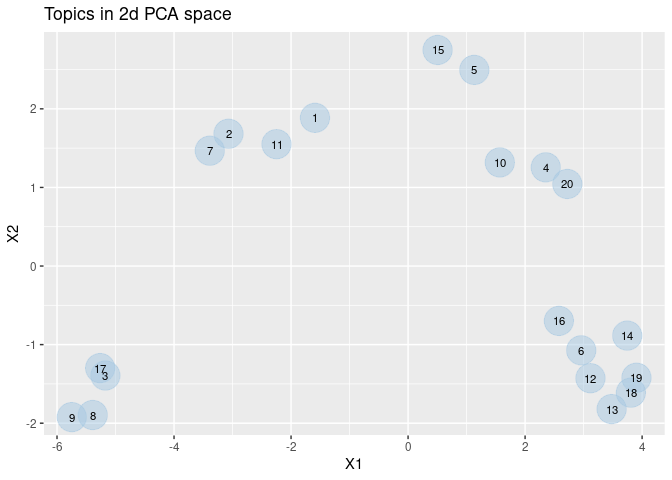
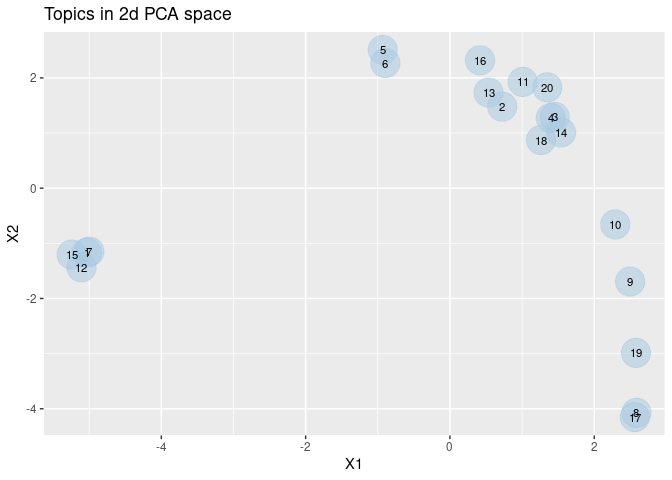
re

diff --git a/README.md b/README.md
@@ -37,23 +37,23 @@ parameter specifies the query term; the `fields` parameter can be used
 to specify which fields to query.
 
 ``` r
-s0 <- PubmedMTK::pmtk_search_pubmed(search_term = 'marijuana', 
+s0 <- PubmedMTK::pmtk_search_pubmed(search_term = 'medical marijuana', 
                                     fields = c('TIAB','MH'))
 ```
 
-    ## [1] "marijuana: 22004 records"
+    ## [1] "medical marijuana: 2125 records"
 
 ``` r
 head(s0)
 ```
 
-    ##    search_term     pmid
-    ## 1:   marijuana 34074708
-    ## 2:   marijuana 34074707
-    ## 3:   marijuana 34073522
-    ## 4:   marijuana 34060494
-    ## 5:   marijuana 34058538
-    ## 6:   marijuana 34058314
+    ##          search_term     pmid
+    ## 1: medical marijuana 34044753
+    ## 2: medical marijuana 34007062
+    ## 3: medical marijuana 33998880
+    ## 4: medical marijuana 33998864
+    ## 5: medical marijuana 33981161
+    ## 6: medical marijuana 33974499
 
 ### Retrieve abstract data from PubMed
 
@@ -65,12 +65,43 @@ sen_df <- PubmedMTK::pmtk_get_records2(pmids = s0$pmid,
 sen_df <- data.table::rbindlist(sen_df)
 ```
 
+> Sample record from output:
+
 ``` r
-colnames(sen_df)
+n <- 9
+list(pmid = sen_df$pmid[n],
+     year = sen_df$year[n],
+     articletitle = strwrap(sen_df$articletitle[n], width = 60),
+     meshHeadings = strwrap(sen_df$meshHeadings[n], width = 60),
+     text = strwrap(sen_df$abstract[n], width = 60)[1:10])
 ```
 
-    ## [1] "pmid"         "year"         "articletitle" "meshHeadings" "chemNames"   
-    ## [6] "keywords"     "abstract"
+    ## $pmid
+    ## [1] "33933061"
+    ## 
+    ## $year
+    ## [1] "2021"
+    ## 
+    ## $articletitle
+    ## [1] "Opioid use in medical cannabis authorization adult patients"
+    ## [2] "from 2013 to 2018: Alberta, Canada."                        
+    ## 
+    ## $meshHeadings
+    ## [1] "Adult|Alberta|Analgesics,"                                  
+    ## [2] "Opioid|Cannabis|Female|Humans|Male|Medical Marijuana|Middle"
+    ## [3] "Aged|Opioid-Related Disorders|United States"                
+    ## 
+    ## $text
+    ##  [1] "The opioid overdose epidemic in Canada and the United"      
+    ##  [2] "States has become a public health crisis - with exponential"
+    ##  [3] "increases in opioid-related morbidity and mortality."       
+    ##  [4] "Recently, there has been an increasing body of evidence"    
+    ##  [5] "focusing on the opioid-sparing effects of medical cannabis" 
+    ##  [6] "use (reduction of opioid use and reliance), and medical"    
+    ##  [7] "cannabis as a potential alternative treatment for chronic"  
+    ##  [8] "pain. The objective of this study is to assess the effect"  
+    ##  [9] "of medical cannabis authorization on opioid use (oral"      
+    ## [10] "morphine equivalent; OME) between 2013 and 2018 in Alberta,"
 
 ### Extract MeSH classifications
 
@@ -120,8 +151,8 @@ lda <- text2vec::LDA$new(n_topics = 20)
 fit <- lda$fit_transform(dtm, progressbar = F)
 ```
 
-    ## INFO  [08:39:03.738] early stopping at 170 iteration 
-    ## INFO  [08:39:04.860] early stopping at 20 iteration
+    ## INFO  [09:14:52.463] early stopping at 160 iteration 
+    ## INFO  [09:14:52.633] early stopping at 20 iteration
 
 ``` r
 tm_summary <- PubmedMTK::pmtk_summarize_lda(
@@ -130,18 +161,18 @@ tm_summary <- PubmedMTK::pmtk_summarize_lda(
 
 #### Feature composition of first ten topics
 
-| topic_id | topic_features                                                                                                                                                                                                                               |
-|---------:|:---------------------------------------------------------------------------------------------------------------------------------------------------------------------------------------------------------------------------------------------|
-|        1 | marijuana \| marijuana_use \| young_adult \| substance_use \| alcohol \| marijuana_smoking \| adolescents \| united_states \| tobacco \| adolescence                                                                                         |
-|        2 | animals \| rats \| mice \| endocannabinoids \| receptors,\_cannabinoid \| receptor,\_cannabinoid,\_cb1 \| dronabinol \| cannabinoid_receptor_modulators \| receptors,\_drug \| brain                                                         |
-|        3 | cannabis \| medical_marijuana \| legislation,\_drug \| drug_and_narcotic_control \| phytotherapy \| canada \| public_health \| health_policy \| chronic_pain \| united_kingdom                                                               |
-|        4 | united_states \| substance-related_disorders \| male \| adolescent \| age_factors \| female \| socioeconomic_factors \| behavior \| adult \| crime                                                                                           |
-|        5 | students \| alcohol_drinking \| substance-related_disorders \| sex_factors \| smoking \| adolescent \| universities \| male \| attitude \| age_factors                                                                                       |
-|        6 | marijuana_abuse \| male \| adult \| comorbidity \| female \| mental_disorders \| depression \| alcoholism \| psychoses,\_substance-induced \| anxiety                                                                                        |
-|        7 | dronabinol \| time_factors \| animals \| dose-response_relationship,\_drug \| heart_rate \| behavior,\_animal \| drug_interactions \| memory \| administration,\_oral \| drug_tolerance                                                      |
-|        8 | cannabis \| male \| aggression \| tobacco \| seeds \| ethanol \| plants,\_toxic \| lung \| smoke \| perception                                                                                                                               |
-|        9 | cannabis \| dronabinol \| cannabinoids \| gas_chromatography-mass_spectrometry \| chromatography,\_gas \| chromatography,\_thin_layer \| reproducibility_of_results \| chromatography,\_high_pressure_liquid \| mass_spectrometry \| methods |
-|       10 | female \| pregnancy \| child \| smoking \| prospective_studies \| prenatal_exposure_delayed_effects \| infant,\_newborn \| case-control_studies \| longitudinal_studies \| pregnancy_complications                                           |
+| topic_id | topic_features                                                                                                                                                                                                                     |
+|---------:|:-----------------------------------------------------------------------------------------------------------------------------------------------------------------------------------------------------------------------------------|
+|        1 | cannabis \| phytotherapy \| legislation,\_drug \| plant_preparations \| health_services_accessibility \| cannabinoid_receptor_modulators \| drug_and_narcotic_control \| politics \| ethics,\_medical \| gastrointestinal_diseases |
+|        2 | marijuana_smoking \| marijuana \| risk_assessment \| adult \| risk_factors \| practice_patterns,\_physicians’ \| health_policy \| cannabis \| time_factors \| germany                                                              |
+|        3 | cannabidiol \| dronabinol \| cannabinoids \| epilepsy \| anticonvulsants \| plant_extracts \| seizures \| tetrahydrocannabinol \| drug_resistant_epilepsy \| epilepsies,\_myoclonic                                                |
+|        4 | cannabinoids \| animals \| endocannabinoids \| brain \| receptors,\_cannabinoid \| receptor,\_cannabinoid,\_cb1 \| cognition \| treatment_outcome \| endocannabinoid_system \| inflammatory_bowel_diseases                         |
+|        5 | marijuana_smoking \| united_states \| legislation,\_drug \| cannabis \| drug_prescriptions \| public_health \| substance_abuse_detection \| workplace \| accidents,\_traffic \| substance_use                                      |
+|        6 | united_states \| california \| state_government \| government_regulation \| public_policy \| federal_government \| cannabis \| legislation,\_drug \| united_states_food_and_drug_administration \| jurisprudence                   |
+|        7 | cannabis \| thc \| cbd \| pregnancy \| commerce \| dose-response_relationship,\_drug \| medicinal_cannabis \| marijuana \| biomedical_research \| treatment                                                                        |
+|        8 | female \| male \| adult \| cross-sectional_studies \| middle_aged \| longitudinal_studies \| alcohol_drinking \| logistic_models \| self_report \| residence_characteristics                                                       |
+|        9 | middle_aged \| aged \| adult \| young_adult \| aged,\_80_and_over \| male \| cross-sectional_studies \| health_surveys \| smoking \| ptsd                                                                                          |
+|       10 | surveys_and_questionnaires \| medical_cannabis \| male \| health_knowledge,\_attitudes,\_practice \| attitude_of_health_personnel \| mental_health \| attitudes \| knowledge \| middle_aged \| public_opinion                      |
 
 ### Two-dimensional analyses
 
@@ -191,71 +222,27 @@ re-creating the table from raw data
 sets](https://github.com/jaytimm/PubmedMTK/blob/main/mds/build-MeSH-df.md).
 
 ``` r
-PubmedMTK::pmtk_tbl_mesh
+PubmedMTK::pmtk_tbl_mesh[1:5, c(1:3, 5:6)]
 ```
 
-    ##         DescriptorUI          DescriptorName                 TermName code
-    ##      1:      D000001              calcimycin               calcimycin    D
-    ##      2:      D000001              calcimycin                  a-23187    D
-    ##      3:      D000001              calcimycin                  a 23187    D
-    ##      4:      D000001              calcimycin                   a23187    D
-    ##      5:      D000001              calcimycin        antibiotic a23187    D
-    ##     ---                                                                   
-    ## 562296:      D066331 laser-evoked potentials   laser-evoked potential    G
-    ## 562297:      D066331 laser-evoked potentials  potential, laser-evoked    G
-    ## 562298:      D066331 laser-evoked potentials  potential, laser-evoked    G
-    ## 562299:      D066331 laser-evoked potentials potentials, laser-evoked    G
-    ## 562300:      D066331 laser-evoked potentials potentials, laser-evoked    G
-    ##                            cats
-    ##      1:     Chemicals and Drugs
-    ##      2:     Chemicals and Drugs
-    ##      3:     Chemicals and Drugs
-    ##      4:     Chemicals and Drugs
-    ##      5:     Chemicals and Drugs
-    ##     ---                        
-    ## 562296: Phenomena and Processes
-    ## 562297: Phenomena and Processes
-    ## 562298: Phenomena and Processes
-    ## 562299: Phenomena and Processes
-    ## 562300: Phenomena and Processes
-    ##                                                      mesh1
-    ##      1:                             Heterocyclic Compounds
-    ##      2:                             Heterocyclic Compounds
-    ##      3:                             Heterocyclic Compounds
-    ##      4:                             Heterocyclic Compounds
-    ##      5:                             Heterocyclic Compounds
-    ##     ---                                                   
-    ## 562296: Musculoskeletal and Neural Physiological Phenomena
-    ## 562297:                            Physiological Phenomena
-    ## 562298: Musculoskeletal and Neural Physiological Phenomena
-    ## 562299:                            Physiological Phenomena
-    ## 562300: Musculoskeletal and Neural Physiological Phenomena
-    ##                                          mesh2           tree_location tree1
-    ##      1:     Heterocyclic Compounds, Fused-Ring     D03.633.100.221.173   D03
-    ##      2:     Heterocyclic Compounds, Fused-Ring     D03.633.100.221.173   D03
-    ##      3:     Heterocyclic Compounds, Fused-Ring     D03.633.100.221.173   D03
-    ##      4:     Heterocyclic Compounds, Fused-Ring     D03.633.100.221.173   D03
-    ##      5:     Heterocyclic Compounds, Fused-Ring     D03.633.100.221.173   D03
-    ##     ---                                                                     
-    ## 562296: Nervous System Physiological Phenomena G11.561.200.500.400.500   G11
-    ## 562297:         Electrophysiological Phenomena G07.265.216.500.400.500   G07
-    ## 562298: Nervous System Physiological Phenomena G11.561.200.500.400.500   G11
-    ## 562299:         Electrophysiological Phenomena G07.265.216.500.400.500   G07
-    ## 562300: Nervous System Physiological Phenomena G11.561.200.500.400.500   G11
-    ##           tree2
-    ##      1: D03.633
-    ##      2: D03.633
-    ##      3: D03.633
-    ##      4: D03.633
-    ##      5: D03.633
-    ##     ---        
-    ## 562296: G11.561
-    ## 562297: G07.265
-    ## 562298: G11.561
-    ## 562299: G07.265
-    ## 562300: G11.561
+    ##    DescriptorUI DescriptorName          TermName                cats
+    ## 1:      D000001     calcimycin        calcimycin Chemicals and Drugs
+    ## 2:      D000001     calcimycin           a-23187 Chemicals and Drugs
+    ## 3:      D000001     calcimycin           a 23187 Chemicals and Drugs
+    ## 4:      D000001     calcimycin            a23187 Chemicals and Drugs
+    ## 5:      D000001     calcimycin antibiotic a23187 Chemicals and Drugs
+    ##                     mesh1
+    ## 1: Heterocyclic Compounds
+    ## 2: Heterocyclic Compounds
+    ## 3: Heterocyclic Compounds
+    ## 4: Heterocyclic Compounds
+    ## 5: Heterocyclic Compounds
 
 ### PMC MeSH annotation frequencies
+
+MeSH annotation frequencies for the Open Access Common Use portion of
+PMC. Frequencies based on roughly 1.8 million PubMed records. Details
+[here](https://github.com/jaytimm/PubmedMTK/blob/main/mds/pmc-reference.md).
 
 ``` r
 PubmedMTK::pmtk_tbl_pmc_ref
@@ -276,84 +263,17 @@ PubmedMTK::pmtk_tbl_pmc_ref
 
 ### Medline citation counts
 
+Table build details available
+[here](https://github.com/jaytimm/PubmedMTK/blob/main/mds/medline_citations.md).
+
 ``` r
-PubmedMTK::pmtk_tbl_citations
+tail(PubmedMTK::pmtk_tbl_citations)
 ```
 
-    ##           year  total    usa
-    ##  1: 1947-01-01  62869     NA
-    ##  2: 1948-01-01  68711     NA
-    ##  3: 1949-01-01  60931     NA
-    ##  4: 1950-01-01  84099     NA
-    ##  5: 1951-01-01 102578     NA
-    ##  6: 1952-01-01 106850     NA
-    ##  7: 1953-01-01 107678     NA
-    ##  8: 1954-01-01 104007     NA
-    ##  9: 1955-01-01 106760     NA
-    ## 10: 1956-01-01 105228     NA
-    ## 11: 1957-01-01 109811     NA
-    ## 12: 1958-01-01 107655     NA
-    ## 13: 1959-01-01 107792     NA
-    ## 14: 1960-01-01 108862     NA
-    ## 15: 1961-01-01 117003     NA
-    ## 16: 1962-01-01 122645     NA
-    ## 17: 1963-01-01 137734     NA
-    ## 18: 1964-01-01 158922  48007
-    ## 19: 1965-01-01 173136  52211
-    ## 20: 1966-01-01 175197  53251
-    ## 21: 1967-01-01 186846  55734
-    ## 22: 1968-01-01 203701  60711
-    ## 23: 1969-01-01 210438  63482
-    ## 24: 1970-01-01 211330  63806
-    ## 25: 1971-01-01 216614  65921
-    ## 26: 1972-01-01 222237  69590
-    ## 27: 1973-01-01 225871  74089
-    ## 28: 1974-01-01 229807  77282
-    ## 29: 1975-01-01 244105  82956
-    ## 30: 1976-01-01 249180  87105
-    ## 31: 1977-01-01 255745  91627
-    ## 32: 1978-01-01 265555  96916
-    ## 33: 1979-01-01 274279 103545
-    ## 34: 1980-01-01 272538 104572
-    ## 35: 1981-01-01 274481 106472
-    ## 36: 1982-01-01 285221 112363
-    ## 37: 1983-01-01 299016 118328
-    ## 38: 1984-01-01 307931 122777
-    ## 39: 1985-01-01 318108 126919
-    ## 40: 1986-01-01 330455 133524
-    ## 41: 1987-01-01 347998 141190
-    ## 42: 1988-01-01 365610 150036
-    ## 43: 1989-01-01 381394 156654
-    ## 44: 1990-01-01 388150 163476
-    ## 45: 1991-01-01 388767 168094
-    ## 46: 1992-01-01 391804 173562
-    ## 47: 1993-01-01 398113 178930
-    ## 48: 1994-01-01 407320 185636
-    ## 49: 1995-01-01 416476 191146
-    ## 50: 1996-01-01 421840 192566
-    ## 51: 1997-01-01 432077 198148
-    ## 52: 1998-01-01 446844 203691
-    ## 53: 1999-01-01 459801 210542
-    ## 54: 2000-01-01 485494 221990
-    ## 55: 2001-01-01 505769 231049
-    ## 56: 2002-01-01 521687 236554
-    ## 57: 2003-01-01 549305 249009
-    ## 58: 2004-01-01 579038 260288
-    ## 59: 2005-01-01 609839 273330
-    ## 60: 2006-01-01 634565 281453
-    ## 61: 2007-01-01 657654 287209
-    ## 62: 2008-01-01 685937 298734
-    ## 63: 2009-01-01 707729 306062
-    ## 64: 2010-01-01 735007 315215
-    ## 65: 2011-01-01 769281 330185
-    ## 66: 2012-01-01 811160 348797
-    ## 67: 2013-01-01 854133 365220
-    ## 68: 2014-01-01 871030 369552
-    ## 69: 2015-01-01 878432 366736
-    ## 70: 2016-01-01 862744 350671
-    ## 71: 2017-01-01 848229 343161
-    ## 72: 2018-01-01 857322 339199
-    ## 73: 2019-01-01 865068 334305
-    ## 74: 2020-01-01 871672 329411
-    ## 75: 2021-01-01 877300 324518
-    ##           year  total    usa
+    ##          year  total    usa
+    ## 1: 2016-01-01 862744 350671
+    ## 2: 2017-01-01 848229 343161
+    ## 3: 2018-01-01 857322 339199
+    ## 4: 2019-01-01 865068 334305
+    ## 5: 2020-01-01 871672 329411
+    ## 6: 2021-01-01 877300 324518
